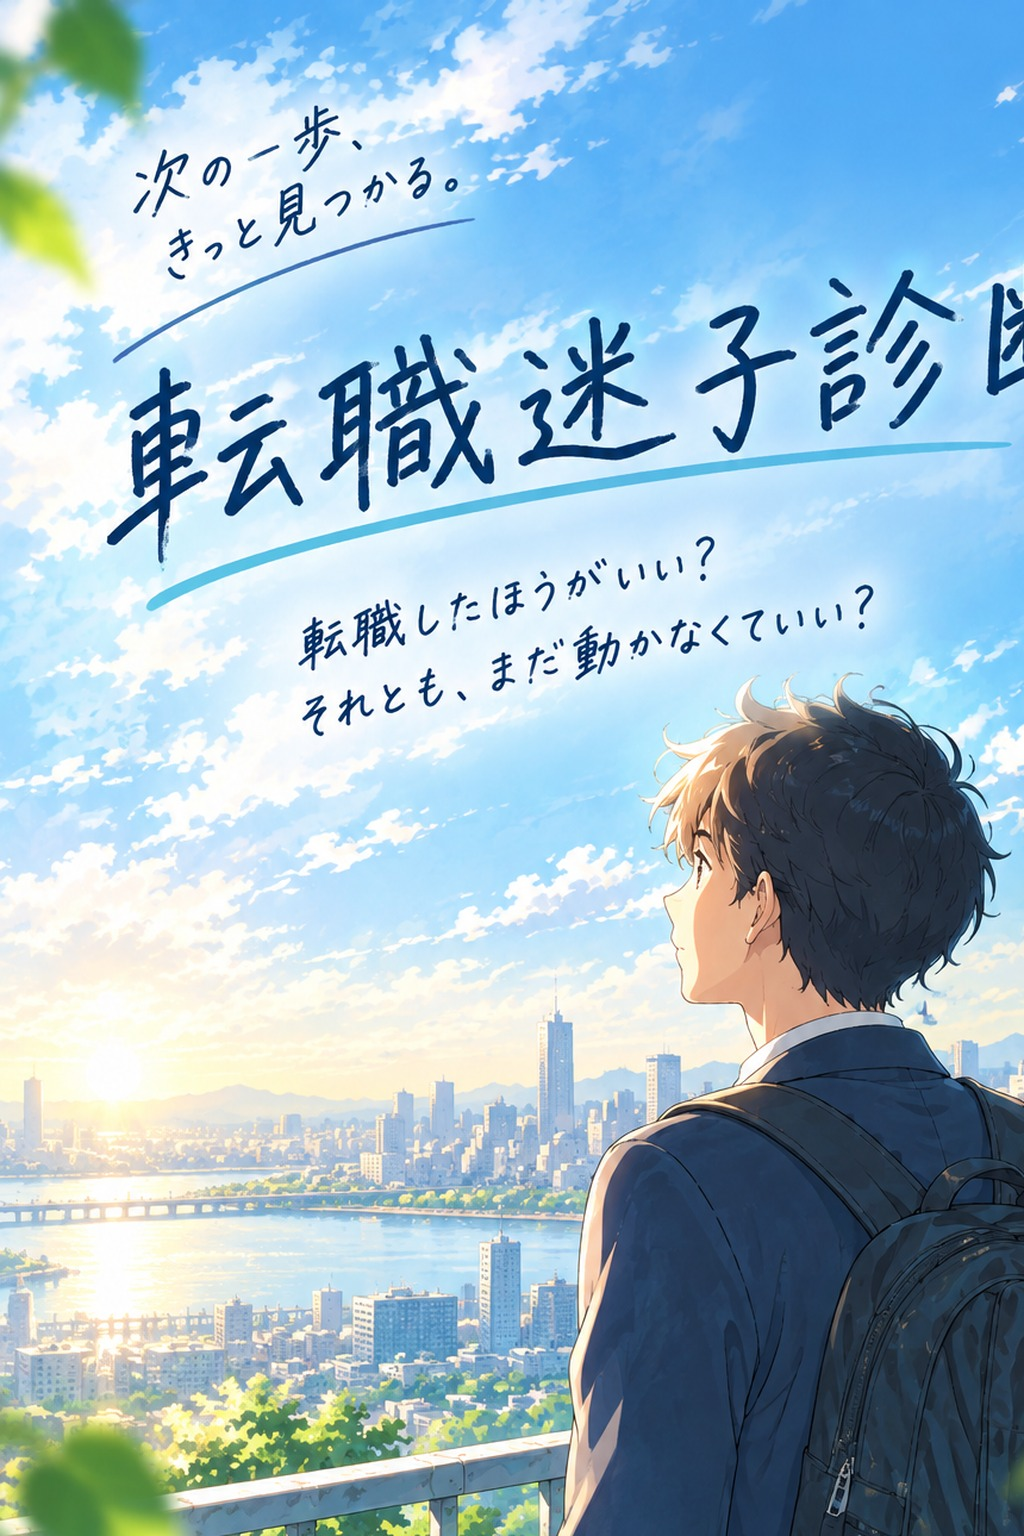
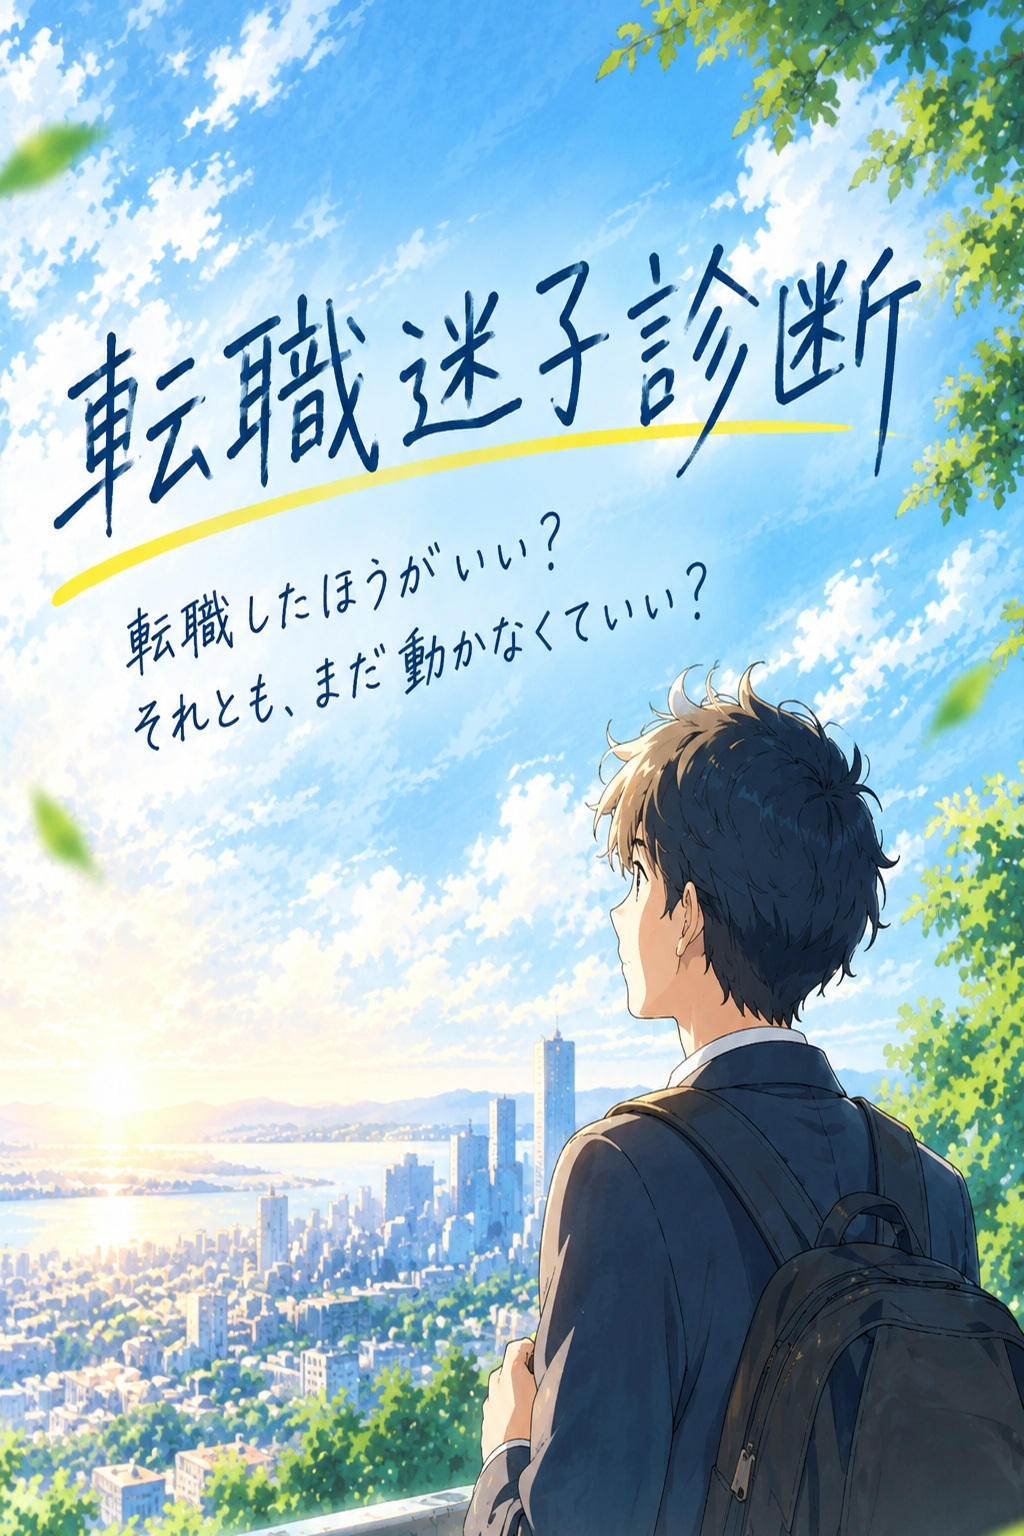
Add files via upload

diff --git a/next-step-lp/index.html b/next-step-lp/index.html
@@ -26,7 +26,7 @@
 <main>
 <section class="hero">
 <div class="hero-visual">
-  <img class="hero-image" src="assets/hero.jpg" alt="転職迷子診断｜次の一歩を考える若者のイメージ">
+  <img class="hero-image" src="hero.jpg" alt="転職迷子診断｜次の一歩を考える若者のイメージ">
   <div class="hero-button-wrap">
     <button class="cta" data-open-quiz>今の自分を診断する <span class="cta-arrow">→</span></button>
   </div>
